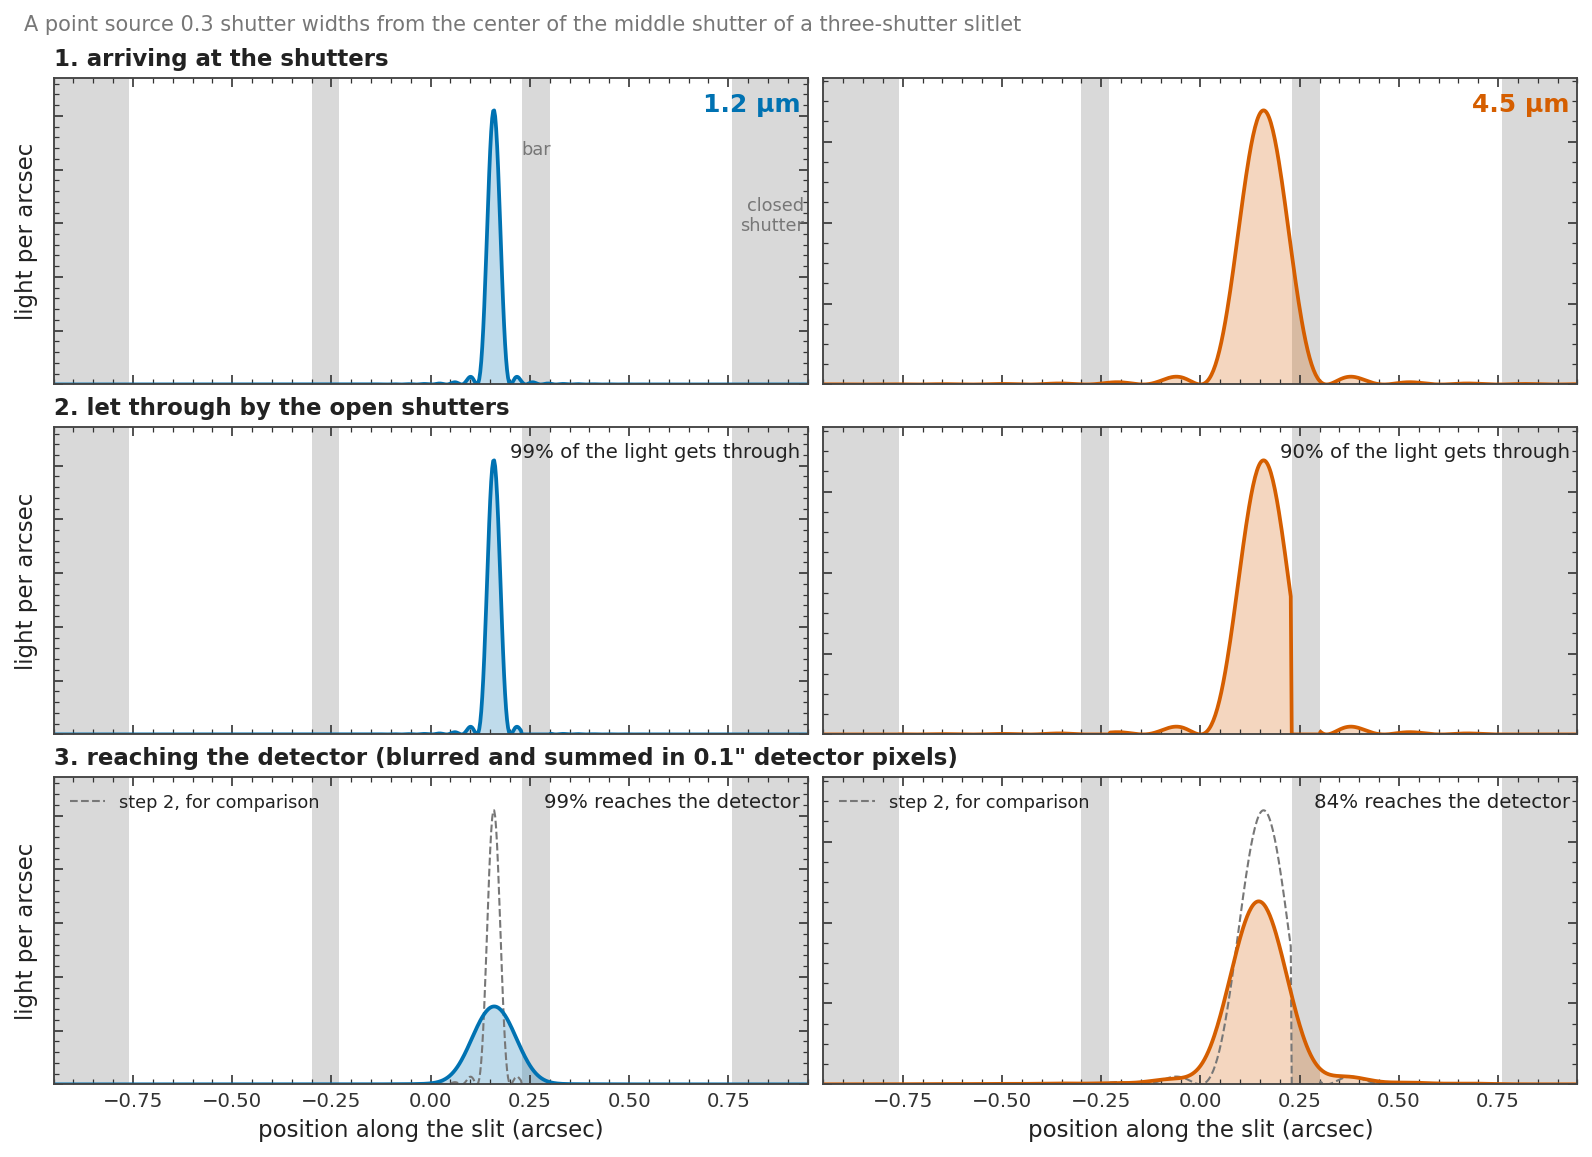
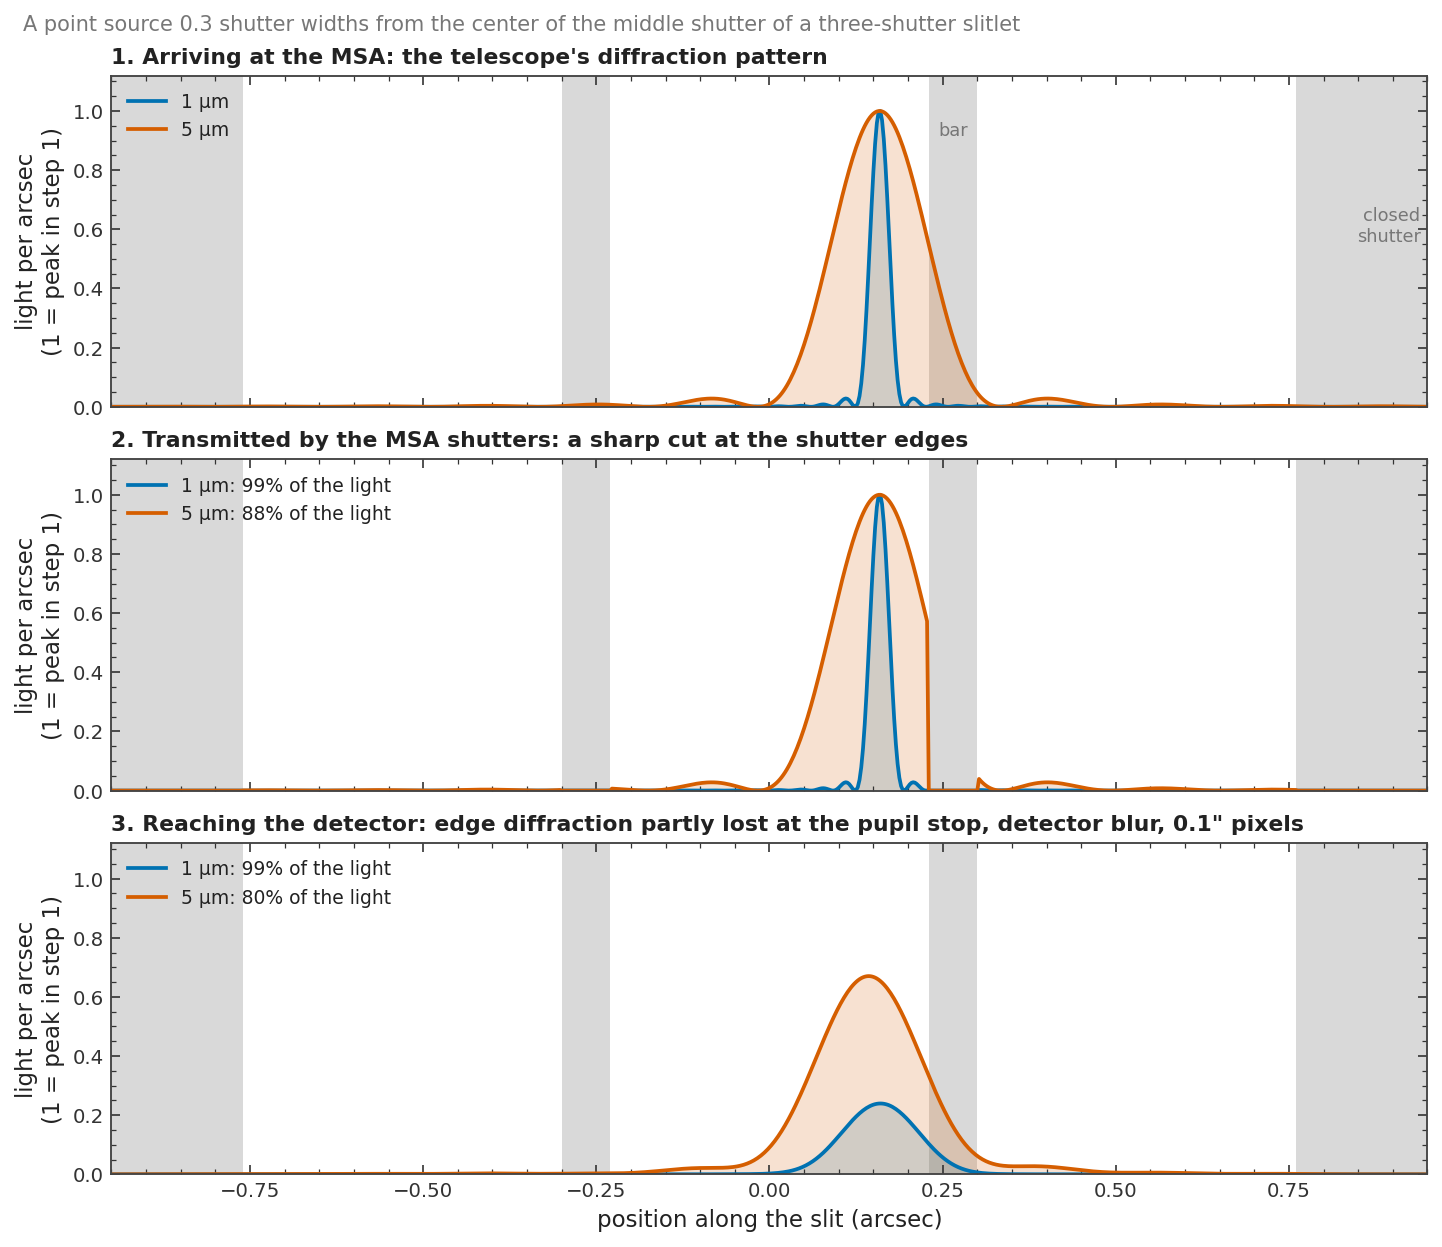
docs: path loss from a point source to uniform light (the model against jwst's two references); optics steps with both wavelengths per panel; one set of wavelength colors
Claude-Session: https://claude.ai/code/session_019a5zAqWZLmp6Vb2WHQdrWE

diff --git a/scripts/docs/nirspec/fig_pathloss.py b/scripts/docs/nirspec/fig_pathloss.py
@@ -1,63 +1,136 @@
-"""How much of a source's light gets through its shutter, by where the source sits: jwst's path-loss
-reference against the CAMPFIRE model.
+"""From a point source to uniform light: the light the MSA lets through, by the size and position of the source.
 
-jwst corrects every spectrum with a path-loss reference measured for a point source (and one for
-perfectly uniform light). CAMPFIRE's profile fit uses its own model of the MSA's optics instead, which
-also covers galaxies of any size. Each panel shows, at one wavelength, the light that gets through as
-the source moves along the slit from its shutter's center toward the bar, relative to a point source at
-the center: jwst's reference for a point source, the model for a point source, and the model for a
-small galaxy. The model's level at the center is jwst's (it only replaces how the light changes with
-position).
+jwst corrects every spectrum with one of two path-loss references: one for a point source and one for
+perfectly uniform light, and nothing in between. The CAMPFIRE optics model (``nirspec/optics.py``) gives
+the light a source of any size passes, so every galaxy gets its own correction, from the same model.
+
+Each panel: a round Gaussian source of one size (columns, from a point to uniform light) at one wavelength
+(rows), moved along the slit across the open part of the middle shutter of a three-shutter slitlet. The
+curve is the light that reaches the detector over the light that falls on the open shutters (the light
+the shutter edges and the spectrograph's pupil stop lose; the light falling on the bars is the source's
+geometry, not the optics). One scale for every size at a wavelength: the model is set to jwst's
+point-source value for a point at the shutter center, the only place the pipeline takes its level from
+jwst. jwst's two references are drawn in the end columns on the same footing: the point reference as it
+is; the uniform reference, which is a surface brightness at the shutter center on jwst's aperture area,
+times jwst's own bar shadow averaged over the open shutters and the ratio of the two aperture widths.
 
     python scripts/docs/nirspec/fig_pathloss.py --root <root>
 """
 import common as C
 
 p = C.parser(__doc__.splitlines()[0], obs=False)
-p.add_argument('--wavelengths', type=float, nargs='+', default=[1.0, 3.0, 5.0], help='µm')
-p.add_argument('--galaxy-width', type=float, default=0.15,
-               help='Gaussian sigma of the galaxy, in units of the shutter\'s open height (0.46")')
+p.add_argument('--wavelengths', type=float, nargs=2, default=[1.0, 5.0], help='µm')
+p.add_argument('--sizes', type=float, nargs='+', default=[0.0, 0.1, 0.3, 1.0],
+               help='source FWHM in arcsec (0 = a point); uniform light is added as the last column')
+p.add_argument('--disperser', default='prism', help='for jwst\'s bar shadow (the uniform reference\'s profile)')
 args = p.parse_args()
-root = C.setup_root(args.root)
+C.setup_root(args.root)
 
 import numpy as np                                                    # noqa: E402
+from astropy.io import fits                                           # noqa: E402
+from scipy.special import erf                                         # noqa: E402
 
+from campfire_pipeline.nirspec import bar_offset as BO                # noqa: E402
+from campfire_pipeline.nirspec import barshadow_calibration as B      # noqa: E402
 from campfire_pipeline.nirspec import crds_refs as CR                 # noqa: E402
 from campfire_pipeline.nirspec import optics as O                     # noqa: E402
 
 plt = C.style()
 ref = CR.depends_on('pathloss')['optics']
 pc = CR.pathloss_cube(ref)
-model = O.optics_for('NRS1')
-pos = np.linspace(-0.5, 0.5, 201)                 # source position, shutter pitches from the shutter center
-open_half = O.H_OPEN / O.PITCH_AS                 # the open part of a shutter, in pitches
-mask = (-1, 0, 1)                                 # the source's shutter and its two open neighbors
+with fits.open(CR._locate(ref)) as h:                                 # jwst's uniform path loss, MOS1x3
+    uni = [x for x in h if x.name == 'UNI' and str(x.header.get('APERTURE', '')).upper() == 'MOS1X3'][0]
+    uni_lam = (uni.header['CRVAL1'] + uni.header['CDELT1'] * np.arange(uni.header['NAXIS1'])) * 1e6
+    uni_val = np.asarray(uni.data, float)
+bs_name = CR.depends_on('barshadow')[f'barshadow_{args.disperser}']
+bs_table = B.load_table(CR._locate(bs_name))
+from campfire_pipeline.config import get_empirical_barshadow_path    # noqa: E402
+bs_measured = B.load_table(get_empirical_barshadow_path(args.disperser))
+JWST_APERTURE_W = 0.0217240 / 0.1                 # PIXAR_A2 of an MOS cal file / pixel height: open width [arcsec]
 
-fig, axes = plt.subplots(1, len(args.wavelengths), figsize=(4.0 * len(args.wavelengths), 3.9), sharey=True,
-                         constrained_layout=True)
-for ax, wl in zip(np.atleast_1d(axes), args.wavelengths):
-    i = int(np.argmin(np.abs(pc.lam - wl)))
-    prof = pc.at_x_centre()[i]
-    jw = np.interp(pos, pc.y, prof) / np.interp(0.0, pc.y, prof)
+model = O.optics_for('NRS1')
+mask = (-1, 0, 1)
+open_half = O.H_OPEN / O.PITCH_AS                 # pitches
+pos = np.linspace(-open_half, open_half, 121)     # source position across the open part, pitches
+centres_slit = [k * O.PITCH_AS / O.SLIT for k in mask]
+tx = np.asarray(model.x_transmission_table(), float)
+
+
+def inside(c, sigma, half, centres):
+    """Share of a Gaussian (center ``c``, ``sigma``) falling within +-``half`` of each center."""
+    s = np.sqrt(2) * np.maximum(sigma, 1e-9)
+    return sum(0.5 * (erf((k + half - c) / s) - erf((k - half - c) / s)) for k in centres)
+
+
+def jwst_mean_barshadow(wl, table=None, reach=1.5):
+    """A bar shadow of a three-shutter slitlet (jwst's, or ``table``; 1 at a shutter center) integrated over
+    every row out to +-``reach`` pitches (the light under the bars and past the outer edges counts, as it
+    does in the model's total) and divided by the open length: the slitlet's total uniform light per unit
+    open length, relative to a shutter center. jwst's reference ends at the outer shutters' edges (1.5)."""
+    table = bs_table if table is None else table
+    ys = np.linspace(-reach, reach, 4001)                              # pitches
+    k = np.rint(ys)
+    seg, yseg = B.segment_map((1 + k).astype(int), ys - k, '1x1')
+    t = np.full(ys.size, np.nan)
+    ok = seg >= 0
+    t[ok] = B.evaluate_table(table, seg[ok], yseg[ok], np.full(ok.sum(), wl))
+    return float(np.nansum(t) * (ys[1] - ys[0]) / (3 * 2 * open_half))
+
+
+def model_curve(wl, fwhm):
+    """Light reaching the detector / light on the open shutters, against position (unscaled)."""
     lam = np.full(pos.size, wl)
     c = CR.slit_position(pos)
-    point = model.transmission(mask, lam, c, np.zeros(pos.size))
-    galaxy = model.transmission(mask, lam, c, np.full(pos.size, args.galaxy_width))
-    norm = model.transmission(mask, np.array([wl]), np.array([0.0]), np.zeros(1))[0]
-    for side in (-1, 1):
-        ax.axvspan(side * open_half, side * 0.5 + side * 0.2, color='#e6e6e6', lw=0, zorder=0)
-    ax.text(0.47, 0.06, 'bar', ha='center', fontsize=9, color=C.MUTED)
-    ax.text(-0.47, 0.06, 'bar', ha='center', fontsize=9, color=C.MUTED)
-    ax.plot(pos, jw, color=C.INK, ls='--', lw=1.6, label='jwst reference, point source')
-    ax.plot(pos, point / norm, color=C.PALETTE[0], lw=2.0, label='CAMPFIRE model, point source')
-    ax.plot(pos, galaxy / norm, color=C.PALETTE[1], lw=2.0,
-            label=f'CAMPFIRE model, galaxy (FWHM {2.355 * args.galaxy_width * O.SLIT:.2f}")')
-    ax.set_xlim(-0.5, 0.5)
-    ax.set_ylim(0, 1.12)
-    ax.set_title(f'{wl:g} µm')
-    ax.set_xlabel('source position along the slit\n(shutter widths from the shutter center)')
-np.atleast_1d(axes)[0].set_ylabel('light that gets through\n(1 = point source at the shutter center)')
-np.atleast_1d(axes)[0].legend(loc='lower center', fontsize=8.5)
-fig.suptitle(f'Light lost at the shutter edges: jwst\'s {ref} against the CAMPFIRE model', x=0.01, ha='left',
-             fontsize=10, color=C.MUTED)
+    if fwhm is None:                                                   # uniform light: no position dependence
+        prof = BO.uniform_profile('NRS1', mask)
+        i = int(np.argmin(np.abs(O.LAM - wl)))
+        t_y = prof[i].sum() / O.DY_ROW * (O.Y[1] - O.Y[0]) / 3.0       # per slit unit of open length
+        t_x = np.interp(wl, O.LAM, tx.sum(axis=1)) * (O.XC[1] - O.XC[0]) / (2 * O.X_HALF)
+        return np.full(pos.size, t_y * t_x)
+    w = fwhm / 2.355 / O.SLIT                                          # sigma, slit units
+    t_y = model.transmission(mask, lam, c, np.full(pos.size, w))
+    t_x0 = float(np.interp(wl, O.LAM, tx[:, int(np.argmin(np.abs(O.XC)))]))
+    r_x = model.x_extended_ratio(np.array([wl]), 0.0, np.array([max(w, 1e-6)]))[0] if w > 0 else 1.0
+    g_y = inside(c, w, 0.5, centres_slit)
+    g_x = float(inside(0.0, w * O.SLIT, O.X_HALF, [0.0])) if w > 0 else 1.0
+    return t_y * t_x0 * r_x / (g_y * g_x)
+
+
+cols = list(args.sizes) + [None]
+fig, axes = plt.subplots(2, len(cols), figsize=(2.75 * len(cols), 5.6), sharex=True, sharey='row',
+                         constrained_layout=True)
+for row, (wl, color) in enumerate(zip(args.wavelengths, (C.WAVE_COLORS[0], C.WAVE_COLORS[-1]))):
+    j = int(np.argmin(np.abs(pc.lam - wl)))
+    iy, ix = int(np.argmin(np.abs(pc.y))), int(np.argmin(np.abs(pc.x)))
+    ps_profile = np.interp(pos, pc.y, pc.cube[j, :, ix])
+    scale = float(pc.cube[j, iy, ix]) / float(model_curve(wl, 0.0)[pos.size // 2])
+    jwst_uniform = (float(np.interp(wl, uni_lam, uni_val)) * jwst_mean_barshadow(wl) * JWST_APERTURE_W
+                    / (2 * O.X_HALF))
+    print(f'{wl:g} um: model uniform {scale * model_curve(wl, None)[0]:.3f}; jwst uniform x its bar shadow '
+          f'{jwst_uniform:.3f} (mean {jwst_mean_barshadow(wl):.3f}); x the measured bar shadow '
+          f'{jwst_uniform / jwst_mean_barshadow(wl) * jwst_mean_barshadow(wl, bs_measured, 2.0):.3f} '
+          f'(mean {jwst_mean_barshadow(wl, bs_measured, 2.0):.3f}; to 1.5 only '
+          f'{jwst_mean_barshadow(wl, bs_measured):.3f})')
+    for col, fwhm in enumerate(cols):
+        ax = axes[row, col]
+        ax.plot(pos, scale * model_curve(wl, fwhm), color=color, lw=2.0, label='CAMPFIRE model')
+        if col == 0:
+            ax.plot(pos, ps_profile, color=C.INK, ls='--', lw=1.5, label='jwst point-source reference')
+        if fwhm is None:
+            ax.axhline(jwst_uniform, color=C.INK, ls='--', lw=1.5, label='jwst uniform reference')
+        if row == 0:
+            ax.set_title('point source' if fwhm == 0 else ('uniform light' if fwhm is None else f'FWHM {fwhm:g}"'),
+                         fontsize=11)
+        if col in (0, len(cols) - 1):
+            ax.legend(loc='lower center', fontsize=7.5)
+        ax.set_xlim(-open_half, open_half)
+    axes[row, 0].set_ylabel(f'{wl:g} µm\n\nlight reaching the detector /\nlight on the open shutters')
+    axes[row, 0].yaxis.label.set_color(color)
+for ax in axes[-1]:
+    ax.set_xlabel('source position\n(shutter widths from center)')
+for row in range(2):
+    lo = min(ax.get_ylim()[0] for ax in axes[row])
+    axes[row, 0].set_ylim(max(lo, 0.0), None)
+fig.suptitle(f'The light the MSA lets through, from a point source to uniform light (jwst references: {ref}, '
+             f'{bs_name})', x=0.01, ha='left', fontsize=10, color=C.MUTED)
 C.save(fig, args, 'pathloss.png')

diff --git a/scripts/docs/nirspec/fig_optics_steps.py b/scripts/docs/nirspec/fig_optics_steps.py
@@ -2,24 +2,26 @@
 
 The profile fit's model of the MSA (``nirspec/optics.py``) follows the light of a point source through
 three steps, drawn here top to bottom for a source sitting off center in its shutter, at a blue and a
-red wavelength:
+red wavelength in the same panels:
 
-1. the telescope's image of the source as it arrives at the MSA (wider in the red: diffraction);
-2. the part of it the open shutters let through (the bars and the closed shutters beyond the slitlet
-   block the rest);
-3. what reaches the detector: cutting the image at the shutter edges spreads light sideways, the
-   spectrograph's pupil stop removes the part spread furthest, and the detector blurs the rest.
+1. the telescope's diffraction pattern at the MSA: the image of a point source through the telescope's
+   pupil (its amplitude across the slit direction tapered as (1 - u^2)^0.25, fitted), wider in the red;
+2. the part of it the MSA's open shutters transmit: the image cut sharply at the shutter edges (the
+   bars and the closed shutters beyond the slitlet block the rest);
+3. what reaches the detector: the sharp cut diffracts light sideways, the spectrograph's pupil stop
+   (0.996 of the telescope pupil's image) removes the part diffracted furthest, the detector blurs
+   the rest (a Gaussian of 0.034" - 0.0026" per micron from 3 µm) and sums it in 0.1" pixels.
 
-The fitted numbers of steps 1 and 3 (pupil shape, stop size, detector blur) come from calibration
-stars and empty shutters (``data/nirspec_optics.json``). An empirical blur before the shutter
-(telescope wavefront error and pointing jitter) is applied on top and is left out here.
+The fitted numbers come from calibration stars and empty shutters (``data/nirspec_optics.json``). An
+empirical blur before the shutter (telescope wavefront error and pointing jitter) is applied on top in
+the pipeline and is left out here.
 
     python scripts/docs/nirspec/fig_optics_steps.py --root <root>
 """
 import common as C
 
 p = C.parser(__doc__.splitlines()[0], obs=False)
-p.add_argument('--wavelengths', type=float, nargs=2, default=[1.2, 4.5], help='µm, blue and red')
+p.add_argument('--wavelengths', type=float, nargs=2, default=[1.0, 5.0], help='µm, blue and red')
 p.add_argument('--position', type=float, default=0.3, help='source position, shutter widths from the center')
 args = p.parse_args()
 C.setup_root(args.root)
@@ -49,53 +51,40 @@ def arriving(lam):
     return inten / inten.sum() / (y[1] - y[0])
 
 
-xlim = (-0.95, 0.95)
-fig, axes = plt.subplots(3, 2, figsize=(10.5, 7.6), sharex=True, constrained_layout=True)
-for col, lam in enumerate(args.wavelengths):
+curves = {}
+for lam in args.wavelengths:
     a = arriving(lam)
-    passed = a * mask
     det, frac = O.point_image(c, lam, shutters, par['rho'], max(par['s0'] + par['s1'] * (lam - 3.0), 1e-4),
                               par['alpha'], y, f)
-    det = O.row_integrate(y, det)
-    top = a.max() * 1.12
-    color = C.PALETTE[0] if col == 0 else C.PALETTE[5]
-    for row, (ax, curve, title) in enumerate(zip(
-            axes[:, col],
-            (a, passed, det),
-            ('1. arriving at the shutters', '2. let through by the open shutters',
-             '3. reaching the detector (blurred and summed in 0.1" detector pixels)'))):
-        # the MSA: bars between the open shutters, closed shutters beyond them
-        for k in (-1.5, -0.5, 0.5, 1.5):
-            lo, hi = k * O.PITCH_AS - (O.PITCH_AS / 2 - O.H_OPEN), k * O.PITCH_AS + (O.PITCH_AS / 2 - O.H_OPEN)
-            ax.axvspan(lo, hi, color='#d9d9d9', lw=0, zorder=0)
-        for side in (-1, 1):
-            ax.axvspan(side * (1.5 * O.PITCH_AS + (O.PITCH_AS / 2 - O.H_OPEN)), side * 2.0, color='#d9d9d9',
-                       lw=0, zorder=0)
-        if row == 2:
-            ax.plot(y, passed, color=C.MUTED, lw=1.0, ls='--', label='step 2, for comparison')
-        ax.fill_between(y, 0, curve, color=color, alpha=0.25, lw=0)
-        ax.plot(y, curve, color=color, lw=1.8)
-        ax.set_ylim(0, top)
-        ax.set_xlim(*xlim)
-        ax.set_yticklabels([])
-        ax.set_title(title if col == 0 else '', fontsize=11)
-        if row == 0:
-            ax.text(0.99, 0.95, f'{lam:g} µm', transform=ax.transAxes, ha='right', va='top', fontsize=12,
-                    fontweight='bold', color=color)
-        if row == 1:
-            ax.text(0.99, 0.95, f'{100 * passed.sum() * (y[1] - y[0]):.0f}% of the light gets through',
-                    transform=ax.transAxes, ha='right', va='top', fontsize=9.5)
-        if row == 2:
-            ax.text(0.99, 0.95, f'{100 * frac:.0f}% reaches the detector', transform=ax.transAxes, ha='right',
-                    va='top', fontsize=9.5)
-            ax.legend(loc='upper left', fontsize=8.5)
-    axes[-1, col].set_xlabel('position along the slit (arcsec)')
-for ax in axes[:, 0]:
-    ax.set_ylabel('light per arcsec')
-axes[0, 0].text(0.94, 0.5 * axes[0, 0].get_ylim()[1], 'closed\nshutter', ha='right', fontsize=8.5,
-                color=C.MUTED)
-axes[0, 0].text(0.5 * O.PITCH_AS, 0.75 * axes[0, 0].get_ylim()[1], 'bar', ha='center', fontsize=8.5,
-                color=C.MUTED)
+    curves[lam] = (a, a * mask, O.row_integrate(y, det), frac)
+
+titles = ('1. Arriving at the MSA: the telescope\'s diffraction pattern',
+          '2. Transmitted by the MSA shutters: a sharp cut at the shutter edges',
+          '3. Reaching the detector: edge diffraction partly lost at the pupil stop, detector blur, 0.1" pixels')
+fig, axes = plt.subplots(3, 1, figsize=(9.5, 8.2), sharex=True, constrained_layout=True)
+top = 1.12
+for row, (ax, title) in enumerate(zip(axes, titles)):
+    for k in (-1.5, -0.5, 0.5, 1.5):                                 # the bars, and closed shutters beyond
+        lo, hi = k * O.PITCH_AS - (O.PITCH_AS / 2 - O.H_OPEN), k * O.PITCH_AS + (O.PITCH_AS / 2 - O.H_OPEN)
+        ax.axvspan(lo, hi, color='#d9d9d9', lw=0, zorder=0)
+    for side in (-1, 1):
+        ax.axvspan(side * (1.5 * O.PITCH_AS + (O.PITCH_AS / 2 - O.H_OPEN)), side * 2.0, color='#d9d9d9', lw=0,
+                   zorder=0)
+    for lam, color in zip(args.wavelengths, (C.WAVE_COLORS[0], C.WAVE_COLORS[-1])):
+        a, passed, det, frac = curves[lam]
+        curve = (a, passed, det)[row] / a.max()                      # each wavelength in units of its step-1 peak
+        share = {0: None, 1: passed.sum() * (y[1] - y[0]), 2: frac}[row]
+        label = f'{lam:g} µm' + (f': {100 * share:.0f}% of the light' if share is not None else '')
+        ax.fill_between(y, 0, curve, color=color, alpha=0.18, lw=0)
+        ax.plot(y, curve, color=color, lw=1.8, label=label)
+    ax.set_ylim(0, top)
+    ax.set_xlim(-0.95, 0.95)
+    ax.set_ylabel('light per arcsec\n(1 = peak in step 1)')
+    ax.set_title(title, fontsize=10.5)
+    ax.legend(loc='upper left', fontsize=9)
+axes[0].text(0.5 * O.PITCH_AS, 0.82 * top, 'bar', ha='center', fontsize=8.5, color=C.MUTED)
+axes[0].text(0.94, 0.5 * top, 'closed\nshutter', ha='right', fontsize=8.5, color=C.MUTED)
+axes[-1].set_xlabel('position along the slit (arcsec)')
 fig.suptitle(f'A point source {args.position:g} shutter widths from the center of the middle shutter of a '
              'three-shutter slitlet', x=0.01, ha='left', fontsize=10, color=C.MUTED)
 C.save(fig, args, 'optics_steps.png')

diff --git a/scripts/docs/nirspec/common.py b/scripts/docs/nirspec/common.py
@@ -22,6 +22,9 @@ OUT_DIRS = {'docs': os.path.join(REPO, 'web', 'public', 'docs', 'nirspec'),
 
 # Okabe-Ito: distinguishable with the common forms of color blindness, in a fixed order.
 PALETTE = ['#0072B2', '#E69F00', '#009E73', '#CC79A7', '#56B4E9', '#D55E00', '#F0E442', '#000000']
+# Wavelength colors, blue to red, the same in every figure that compares wavelengths: 1, 3, 5 µm (or the
+# nearest the figure uses). Kept apart from the colors that mark kinds of source or of model.
+WAVE_COLORS = ['#0072B2', '#009E73', '#D55E00']
 INK = '#222222'
 MUTED = '#777777'
 
